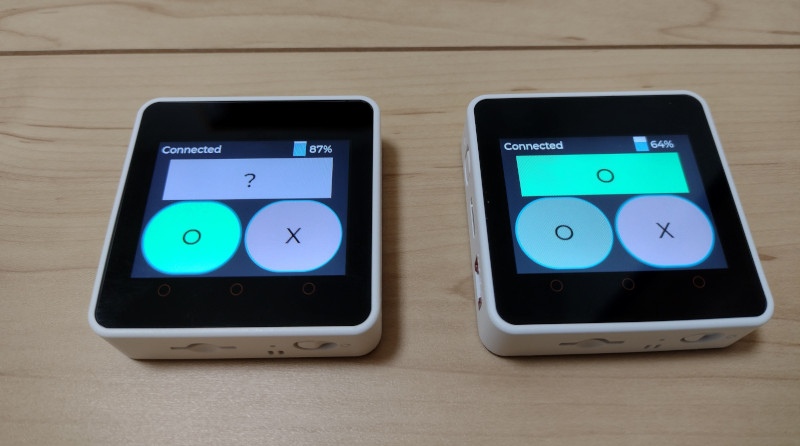
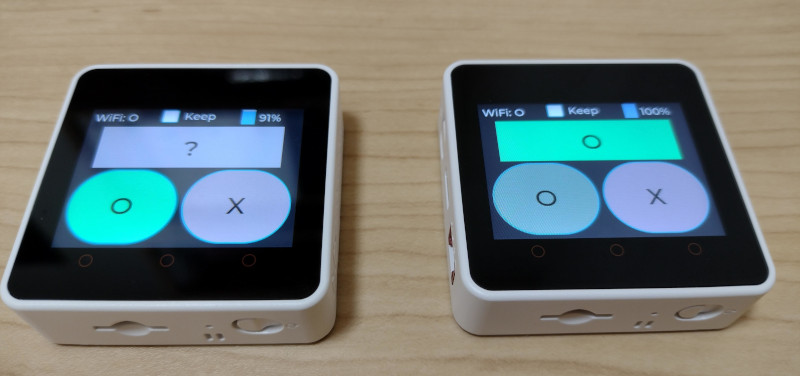
Update the README.

diff --git a/README.md b/README.md
@@ -19,7 +19,11 @@ Each device has two buttons ("O" and "X") on the lower side of the screen.
 
 When you press the button, your intension is shown in your partner's device (in the upper side of the screen.)
 
-When you don't touch the button for a while, both buttons will go back to grey. Your partner's device will show "?", meaning that your intension is unknown.
+By default, when you don't touch the button for a while, both buttons will go back to grey. Your partner's device will show "?", meaning that your intension is unknown.
+
+The above behavior is changed if you check the "Keep" box by pressing it.
+If the "Keep" box is checked, the buttons won't go back to grey automatically, but they keep its current state.
+If you want to reset the button's state, just press it again.
 
 Under the hood, the two devices communicate with each other over Wi-Fi and a MQTT broker.
 
